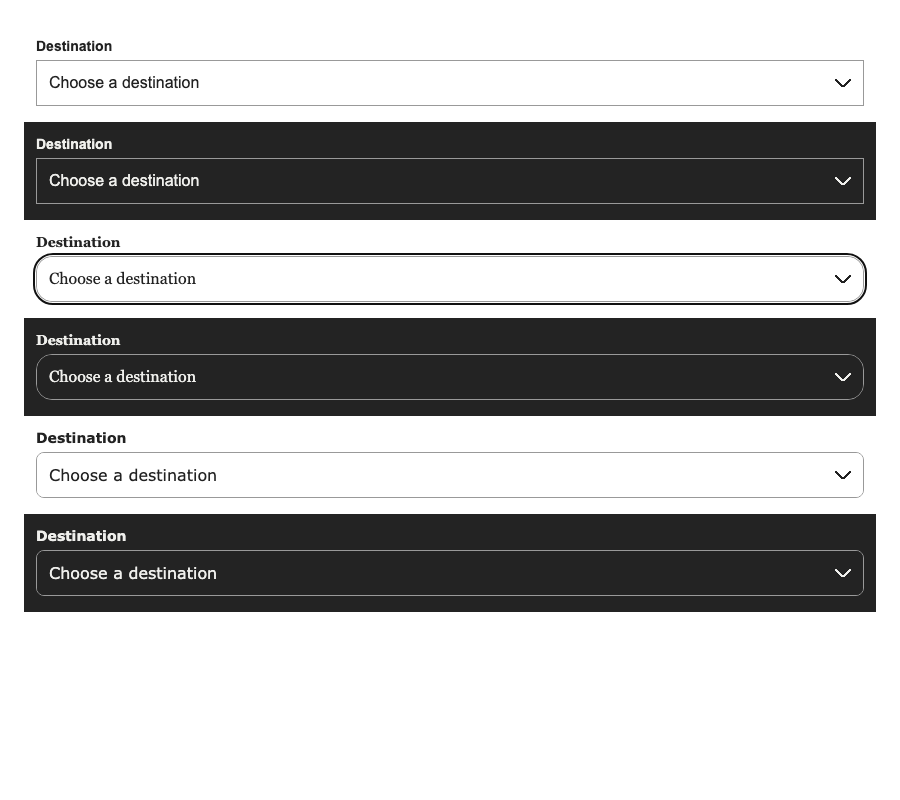
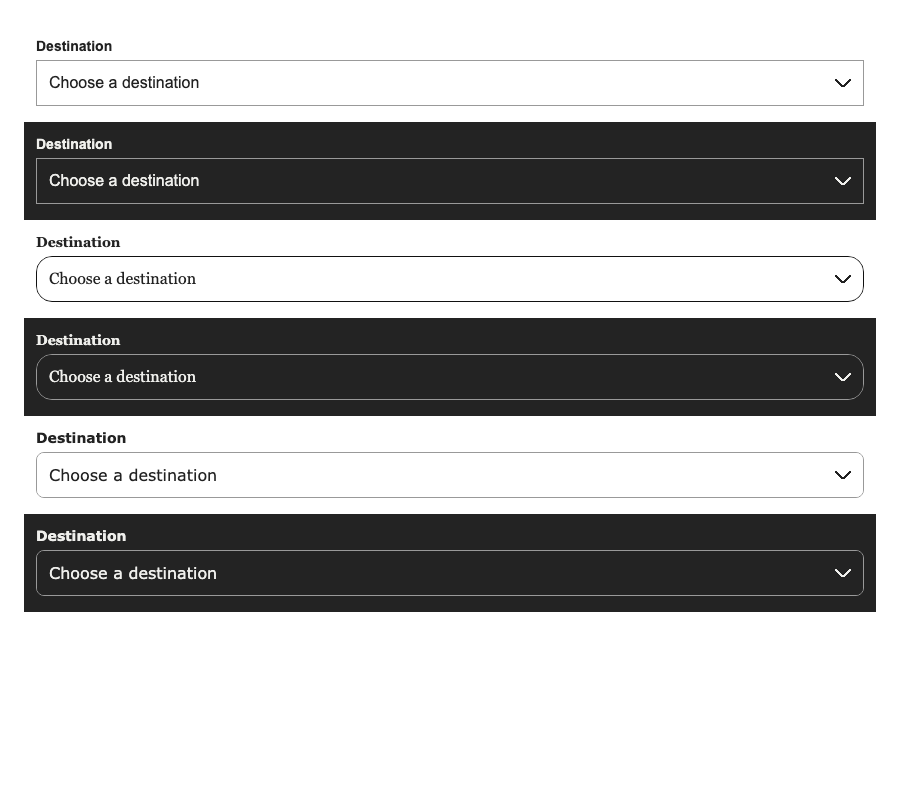
Refine field focus to a single rounded edge

Changed region(s): [[0.0311, 0.3125, 0.9644, 0.375], [0.0622, 0.375, 0.9333, 0.4062]]

diff --git a/packages/ds/test/field-focus.chromium.browser.test.ts b/packages/ds/test/field-focus.chromium.browser.test.ts
@@ -13,6 +13,41 @@ afterEach(async () => {
   await cdp().send('Emulation.setEmulatedMedia', { features: [] });
 });
 
+test('focused invalid fields use one focus-colored edge', async () => {
+  host = document.createElement('div');
+  host.dataset.wkTheme = 'studio';
+  host.dataset.wkMode = 'light';
+  host.innerHTML = `
+    <wk-text-field name="name" label="Name"></wk-text-field>
+    <wk-select name="destination" label="Destination"><select slot="input"><option value="one">One</option></select></wk-select>
+    <wk-text-area name="notes" label="Notes"></wk-text-area>`;
+  document.body.append(host);
+
+  const fields = [...host.querySelectorAll<HTMLElement>('wk-text-field, wk-select, wk-text-area')];
+  await Promise.all(
+    fields.map(
+      (field) => (field as HTMLElement & { updateComplete: Promise<unknown> }).updateComplete,
+    ),
+  );
+
+  const reference = document.createElement('span');
+  reference.style.color = 'var(--wk-focus)';
+  host.append(reference);
+  const focusColor = getComputedStyle(reference).color;
+
+  for (const field of fields) {
+    const control = field.querySelector<HTMLElement>('[slot="input"]')!;
+    const wrapper = field.shadowRoot!.querySelector<HTMLElement>('.input-group__container')!;
+    control.setAttribute('aria-invalid', 'true');
+    expect(getComputedStyle(wrapper).borderColor).not.toBe(focusColor);
+    control.focus();
+    const style = getComputedStyle(wrapper);
+    expect(style.borderColor).toBe(focusColor);
+    expect(style.boxShadow).toContain(focusColor);
+    control.blur();
+  }
+});
+
 test('rounded fields retain one keyboard focus outline in forced colors', async () => {
   await cdp().send('Emulation.setEmulatedMedia', {
     features: [{ name: 'forced-colors', value: 'active' }],
@@ -44,13 +79,16 @@ test('rounded fields retain one keyboard focus outline in forced colors', async 
 
   for (const field of fields) {
     const control = field.querySelector<HTMLElement>('[slot="input"]')!;
+    const wrapper = field.shadowRoot!.querySelector<HTMLElement>('.input-group__container')!;
     await userEvent.tab();
     expect(control).toBe(document.activeElement);
-    expect(control.matches(':focus-visible')).toBe(true);
-    const style = getComputedStyle(control);
+    expect(getComputedStyle(control).outlineStyle).toBe('none');
+    const style = getComputedStyle(wrapper);
     expect(style.outlineStyle).toBe('solid');
     expect(style.outlineWidth).toBe('2px');
     expect(style.outlineColor).toBe(highlight);
+    expect(style.outlineOffset).toBe('-2px');
+    expect(style.borderColor).toBe(highlight);
     expect(style.borderTopLeftRadius).toBe('16px');
   }
 });

diff --git a/packages/ds/src/components/text-area/text-area.stories.ts b/packages/ds/src/components/text-area/text-area.stories.ts
@@ -18,11 +18,12 @@ const themes = ['neutral', 'studio', 'fieldwork'] as const;
 const modes = ['light', 'dark'] as const;
 const lines = (n: number) => Array.from({ length: n }, (_, i) => `Line ${i + 1}`).join('\n');
 
-const expectFocusGeometry = async (host: Element, control: Element) => {
-  const style = getComputedStyle(control);
-  await expect(style.outlineStyle).toBe('solid');
-  await expect(style.outlineWidth).toBe('2px');
-  await expect(style.outlineOffset).toBe('2px');
+const expectFocusGeometry = async (host: Element, control: Element, beforeBorder: string) => {
+  const wrapper = host.shadowRoot!.querySelector<HTMLElement>('.input-group__container')!;
+  const style = getComputedStyle(wrapper);
+  await expect(getComputedStyle(control).outlineStyle).toBe('none');
+  await expect(style.borderColor).not.toBe(beforeBorder);
+  await expect(style.boxShadow).not.toBe('none');
   await expect(style.borderTopLeftRadius).toBe(
     getComputedStyle(host).getPropertyValue('--wk-radius').trim() || '0px',
   );
@@ -117,9 +118,11 @@ export const Focus: Story = {
     const hosts = Array.from(canvasElement.querySelectorAll('wk-text-area'));
     for (const host of hosts) {
       const control = host.querySelector('[slot="input"]')!;
+      const wrapper = host.shadowRoot!.querySelector<HTMLElement>('.input-group__container')!;
+      const beforeBorder = getComputedStyle(wrapper).borderColor;
       await userEvent.tab();
       await expect(control).toHaveFocus();
-      await expectFocusGeometry(host, control);
+      await expectFocusGeometry(host, control, beforeBorder);
     }
   },
 };

diff --git a/packages/ds/src/components/select/select.stories.ts b/packages/ds/src/components/select/select.stories.ts
@@ -12,11 +12,12 @@ const options = () => html`
 const focusThemes = ['neutral', 'studio', 'fieldwork'] as const;
 const focusModes = ['light', 'dark'] as const;
 
-const expectFocusGeometry = async (host: Element, control: Element) => {
-  const style = getComputedStyle(control);
-  await expect(style.outlineStyle).toBe('solid');
-  await expect(style.outlineWidth).toBe('2px');
-  await expect(style.outlineOffset).toBe('2px');
+const expectFocusGeometry = async (host: Element, control: Element, beforeBorder: string) => {
+  const wrapper = host.shadowRoot!.querySelector<HTMLElement>('.input-group__container')!;
+  const style = getComputedStyle(wrapper);
+  await expect(getComputedStyle(control).outlineStyle).toBe('none');
+  await expect(style.borderColor).not.toBe(beforeBorder);
+  await expect(style.boxShadow).not.toBe('none');
   await expect(style.borderTopLeftRadius).toBe(
     getComputedStyle(host).getPropertyValue('--wk-radius').trim() || '0px',
   );
@@ -75,9 +76,11 @@ export const Focus: Story = {
     const hosts = Array.from(canvasElement.querySelectorAll('wk-select'));
     for (const host of hosts) {
       const control = host.querySelector('[slot="input"]')!;
+      const wrapper = host.shadowRoot!.querySelector<HTMLElement>('.input-group__container')!;
+      const beforeBorder = getComputedStyle(wrapper).borderColor;
       await userEvent.tab();
       await expect(control).toHaveFocus();
-      await expectFocusGeometry(host, control);
+      await expectFocusGeometry(host, control, beforeBorder);
     }
   },
 };

diff --git a/packages/ds/src/components/text-field/text-field.stories.ts b/packages/ds/src/components/text-field/text-field.stories.ts
@@ -17,11 +17,12 @@ interface TextFieldArgs {
 const themes = ['neutral', 'studio', 'fieldwork'] as const;
 const modes = ['light', 'dark'] as const;
 
-const expectFocusGeometry = async (host: Element, control: Element) => {
-  const style = getComputedStyle(control);
-  await expect(style.outlineStyle).toBe('solid');
-  await expect(style.outlineWidth).toBe('2px');
-  await expect(style.outlineOffset).toBe('2px');
+const expectFocusGeometry = async (host: Element, control: Element, beforeBorder: string) => {
+  const wrapper = host.shadowRoot!.querySelector<HTMLElement>('.input-group__container')!;
+  const style = getComputedStyle(wrapper);
+  await expect(getComputedStyle(control).outlineStyle).toBe('none');
+  await expect(style.borderColor).not.toBe(beforeBorder);
+  await expect(style.boxShadow).not.toBe('none');
   await expect(style.borderTopLeftRadius).toBe(
     getComputedStyle(host).getPropertyValue('--wk-radius').trim() || '0px',
   );
@@ -129,9 +130,11 @@ export const Focus: Story = {
     const hosts = Array.from(canvasElement.querySelectorAll('wk-text-field'));
     for (const host of hosts) {
       const control = host.querySelector('[slot="input"]')!;
+      const wrapper = host.shadowRoot!.querySelector<HTMLElement>('.input-group__container')!;
+      const beforeBorder = getComputedStyle(wrapper).borderColor;
       await userEvent.tab();
       await expect(control).toHaveFocus();
-      await expectFocusGeometry(host, control);
+      await expectFocusGeometry(host, control, beforeBorder);
     }
   },
 };

diff --git a/packages/ds/src/components/select/wk-select.styles.ts b/packages/ds/src/components/select/wk-select.styles.ts
@@ -69,12 +69,15 @@ export const wkSelectStyles = css`
       linear-gradient(-45deg, transparent 42%, currentColor 42% 58%, transparent 58%),
       linear-gradient(45deg, transparent 42%, currentColor 42% 58%, transparent 58%);
   }
-  ::slotted(select[slot='input']:focus-visible) {
-    outline: 2px solid var(--wk-focus, #111);
-    outline-offset: 2px;
-    border-radius: var(--wk-radius, 0px);
+  ::slotted(select[slot='input']:focus) {
+    outline: 0;
   }
-  :host(:has(> select[slot='input'][aria-invalid='true'])) .input-group__container {
+  :host(:focus-within) .input-group__container {
+    border-color: var(--wk-focus, #111);
+    box-shadow: inset 0 0 0 1px var(--wk-focus, #111);
+  }
+  :host(:not(:focus-within):has(> select[slot='input'][aria-invalid='true']))
+    .input-group__container {
     border-color: var(--wk-danger, #a02222);
   }
   ::slotted([data-wk-external-error]),
@@ -92,8 +95,11 @@ export const wkSelectStyles = css`
     cursor: not-allowed;
   }
   @media (forced-colors: active) {
-    ::slotted(select[slot='input']:focus-visible) {
-      outline-color: Highlight;
+    :host(:focus-within) .input-group__container {
+      border-color: Highlight;
+      box-shadow: none;
+      outline: 2px solid Highlight;
+      outline-offset: -2px;
     }
     .input-group__container {
       border-color: CanvasText;

diff --git a/packages/ds/src/components/text-area/wk-text-area.styles.ts b/packages/ds/src/components/text-area/wk-text-area.styles.ts
@@ -50,12 +50,12 @@ export const wkTextAreaStyles = css`
     overflow-wrap: anywhere;
     resize: none;
   }
-  ::slotted(textarea[slot='input']:focus-visible) {
-    outline: 2px solid var(--wk-focus, #111);
-    outline-offset: 2px;
-    border-radius: var(--wk-radius, 0px);
+  :host(:focus-within) .input-group__container {
+    border-color: var(--wk-focus, #111);
+    box-shadow: inset 0 0 0 1px var(--wk-focus, #111);
   }
-  :host(:has(> textarea[slot='input'][aria-invalid='true'])) .input-group__container {
+  :host(:not(:focus-within):has(> textarea[slot='input'][aria-invalid='true']))
+    .input-group__container {
     border-color: var(--wk-danger, #a02222);
   }
   ::slotted([data-wk-external-error]) {
@@ -82,8 +82,11 @@ export const wkTextAreaStyles = css`
     }
   }
   @media (forced-colors: active) {
-    ::slotted(textarea[slot='input']:focus-visible) {
-      outline-color: Highlight;
+    :host(:focus-within) .input-group__container {
+      border-color: Highlight;
+      box-shadow: none;
+      outline: 2px solid Highlight;
+      outline-offset: -2px;
     }
     .input-group__container {
       border-color: CanvasText;

diff --git a/packages/ds/src/components/text-field/wk-text-field.styles.ts b/packages/ds/src/components/text-field/wk-text-field.styles.ts
@@ -47,12 +47,12 @@ export const wkTextFieldStyles = css`
     font: inherit;
     line-height: 24px;
   }
-  ::slotted(input[slot='input']:focus-visible) {
-    outline: 2px solid var(--wk-focus, #111);
-    outline-offset: 2px;
-    border-radius: var(--wk-radius, 0px);
+  :host(:focus-within) .input-group__container {
+    border-color: var(--wk-focus, #111);
+    box-shadow: inset 0 0 0 1px var(--wk-focus, #111);
   }
-  :host(:has(> input[slot='input'][aria-invalid='true'])) .input-group__container {
+  :host(:not(:focus-within):has(> input[slot='input'][aria-invalid='true']))
+    .input-group__container {
     border-color: var(--wk-danger, #a02222);
   }
   ::slotted([data-wk-external-error]) {
@@ -79,8 +79,11 @@ export const wkTextFieldStyles = css`
     }
   }
   @media (forced-colors: active) {
-    ::slotted(input[slot='input']:focus-visible) {
-      outline-color: Highlight;
+    :host(:focus-within) .input-group__container {
+      border-color: Highlight;
+      box-shadow: none;
+      outline: 2px solid Highlight;
+      outline-offset: -2px;
     }
     .input-group__container {
       border-color: CanvasText;

diff --git a/packages/ds/test/text-area.browser.test.ts b/packages/ds/test/text-area.browser.test.ts
@@ -134,10 +134,15 @@ test('keyboard editing can replace a selection after a line break', async () => 
 
 test('label names the control and focus is visible', async () => {
   const { fields } = await mount(`<wk-text-area name="n" label="Notes"></wk-text-area>`);
-  const input = control(first(fields));
+  const field = first(fields);
+  const input = control(field);
+  const wrapper = field.shadowRoot!.querySelector<HTMLElement>('.input-group__container')!;
+  const restingBorder = getComputedStyle(wrapper).borderColor;
   await userEvent.tab();
   expect(document.activeElement).toBe(input);
-  expect(getComputedStyle(input).outlineStyle).toBe('solid');
+  expect(getComputedStyle(input).outlineStyle).toBe('none');
+  expect(getComputedStyle(wrapper).borderColor).not.toBe(restingBorder);
+  expect(getComputedStyle(wrapper).boxShadow).not.toBe('none');
   expect(input.getAttribute('aria-labelledby')).toBeTruthy();
 });
 

diff --git a/packages/ds/src/tokens/tokens.ts b/packages/ds/src/tokens/tokens.ts
@@ -13,7 +13,7 @@ export const wkTokens = [
   { name: '--wk-text', fallback: '#222', description: 'Default text colour.' },
   { name: '--wk-surface', fallback: '#fff', description: 'Default control surface.' },
   { name: '--wk-border', fallback: '#999', description: 'Default control border.' },
-  { name: '--wk-focus', fallback: '#111', description: 'Focus ring colour.' },
+  { name: '--wk-focus', fallback: '#111', description: 'Focus indicator colour.' },
   { name: '--wk-accent', fallback: '#171717', description: 'Primary variant background.' },
   { name: '--wk-on-accent', fallback: '#fff', description: 'Text on the accent colour.' },
   {

diff --git a/docs/ds/issue-68-evidence.md b/docs/ds/issue-68-evidence.md
@@ -2,9 +2,9 @@
 
 ## Scope and decision status
 
-This is a corrective change to provisional TextField, Select and TextArea focus styling, not shared production promotion. Ian's visual acceptance of the final appearance is pending. The separate comparison worktree's uncommitted TextField/Select experiment remains intact; its `:focus-within` wrapper stroke was reviewed and replaced here because it broadened the prior `:focus-visible` trigger and relied on a shadow that forced-colors mode removes.
+This is a corrective change to provisional TextField, Select and TextArea focus styling, not shared production promotion. Ian rejected the spaced outer ring on the first PR #70 preview and requested a single focus-colored field edge. Acceptance of the revised appearance is pending. The separate comparison worktree's uncommitted TextField/Select experiment remains intact.
 
-The candidate retains each native control's `:focus-visible` outline, gives the slotted control the configured `--wk-radius`, and keeps the forced-colors `Highlight` outline. The Select chevron and dark corner rules from #36 are unchanged.
+The revised candidate keeps native keyboard focus, removes the native outline and colors the rounded wrapper border on focus. A same-color inset stroke makes a continuous 2px edge without a gap or layout shift. Forced-colors mode uses a 2px `Highlight` outline over the same edge because box shadows are suppressed there. The Select chevron and dark corner rules from #36 are unchanged.
 
 ## Reproduction and review images
 
@@ -22,12 +22,12 @@ The original client-theme TextArea reproduction shows a square focus edge outsid
 
 ## Automated evidence
 
-- Focus stories render all three approved themes in light/dark and check keyboard focus, the 2px outline, offset and computed radius: 35/35 focused story tests in each of Chromium, Firefox and WebKit.
-- A Chromium package test emulates forced colors and verifies actual `Highlight` outline color, 2px outline and 16px Studio radius for all three native controls: 1/1.
-- Full root `pnpm test` passes: DS 268/268, Angular example 11/11, React example 13/13, plus the mode-switch HTML smoke.
+- Focus stories render all three approved themes in light/dark and check keyboard focus, the focus-colored wrapper border, the same-color inset stroke and computed radius.
+- Chromium package tests verify that focused invalid fields use the same focus-colored edge, and emulate forced colors to check actual `Highlight` border/outline color, 2px outline and 16px Studio radius for all three native controls.
+- Full root `pnpm test` passes: DS 269/269, Angular example 11/11, React example 13/13, plus the mode-switch HTML smoke.
 - Root lint and typecheck pass. Static Storybook build and its component smoke scripts pass.
 - Local GitHub Copilot CLI used 69.18 AI credits of the 100-credit issue cap. Codex reviewed, tightened the story fixtures and added the forced-colors emulation test and captures.
 
 ## Remaining evidence
 
-Owner visual acceptance and PR CI/preview review remain pending. Manual AT and physical-device evidence remain under #59; Windows/NVDA remains untested under #45. These automated checks do not certify accessibility or production use.
+Owner visual acceptance and revised PR CI/preview review remain pending. Manual AT and physical-device evidence remain under #59; Windows/NVDA remains untested under #45. WCAG 2.4.13 AAA focus-area and contrast assessment has not been completed. These automated checks do not certify accessibility or production use.
